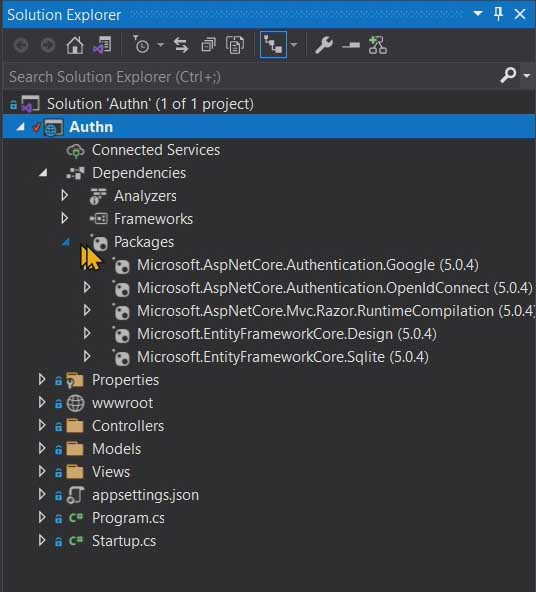
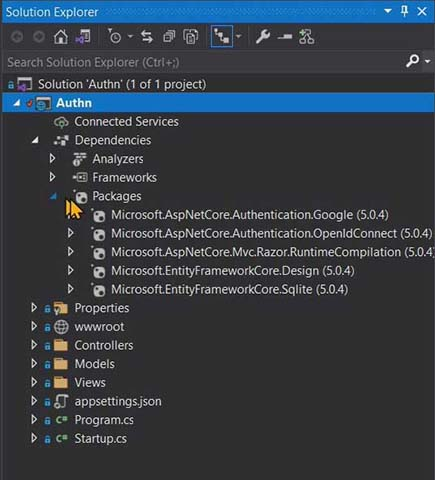
let's try these changes

diff --git a/code/aspnetcore/aspnetcore-addsqlitedb.md b/code/aspnetcore/aspnetcore-addsqlitedb.md
@@ -1,14 +1,43 @@
 In this post we will learn how to add a sqlite database to an ASP.NET core project using entity framework core, code first.
 
-to get going we're going to add a sqlite database as a local file i'm going to start by going to manage nuget packages and add a couple of important packages i'm going to need the entity framework core design
+First, let's add some nuget packages. Start by launching "manage nuget packages" window and add `Microsoft.EntityFrameworkCore.Design`.
+![Image 1](https://raw.githubusercontent.com/mobiletonster/blogposts/main/code/aspnetcore/images/addsqlitedb/1-efcoredesign-cropped.jpg "manage nuget - add ef core design")
 
-as well as the entity framework core dot sqlite
+Next, add `Microsoft.EntityFrameworkCore.Sqlite`.
+![Image 2](https://raw.githubusercontent.com/mobiletonster/blogposts/main/code/aspnetcore/images/addsqlitedb/2-efcoresqlite-cropped.jpg "manage nuget - add ef core sqlite")
 
-okay and we'll just check and make sure that we have actually added those dependencies and it looks like we've got core design and core sequel light looks like we're in good shape
+Check to be sure that we have actually added those dependencies:
+![Image 3](https://raw.githubusercontent.com/mobiletonster/blogposts/main/code/aspnetcore/images/addsqlitedb/3-dependenciesadded-cropped.jpg "dependencies appear in solution explorer")
 
-next thing i want to do is add a new folder to put all my data in then i want to add a new class
+We have .Design and .Sqlite packages added.
 
-this is going to be our app user dot cs file
+Add a new folder to contain all the data items, then add a new class `AppUser.cs`
+![Image 4](https://raw.githubusercontent.com/mobiletonster/blogposts/main/code/aspnetcore/images/addsqlitedb/4-datafolder-appuserclass-cropped.jpg)
+
+Here is the code for the class:
+
+```csharp
+public class AppUser
+{
+    public int UserId { get; set; }
+    public string Provider { get; set; }
+    public string NameIdentifier { get; set; }
+    public string Username { get; set; }
+    public string Password { get; set; }
+    public string Email { get; set; }
+    public string Firstname { get; set; }
+    public string Lastname { get; set; }
+    public string Mobile { get; set; }
+    public string Roles { get; set; }
+    public List<string> RoleList
+    {
+        get
+        {
+            return Roles?.Split(',').ToList()??new List<string>();
+        }
+    }
+}
+```
 
 okay i pasted this class in it has a few fields in it user id provider name identifier username password email first name last name mobile and a string for roles then i want to add one more property for roll list and all this will do is take the comma delimited list of roles that we could add to a user and split them out into a list of strings that define the role list and we'll use that later let's add another class
 
